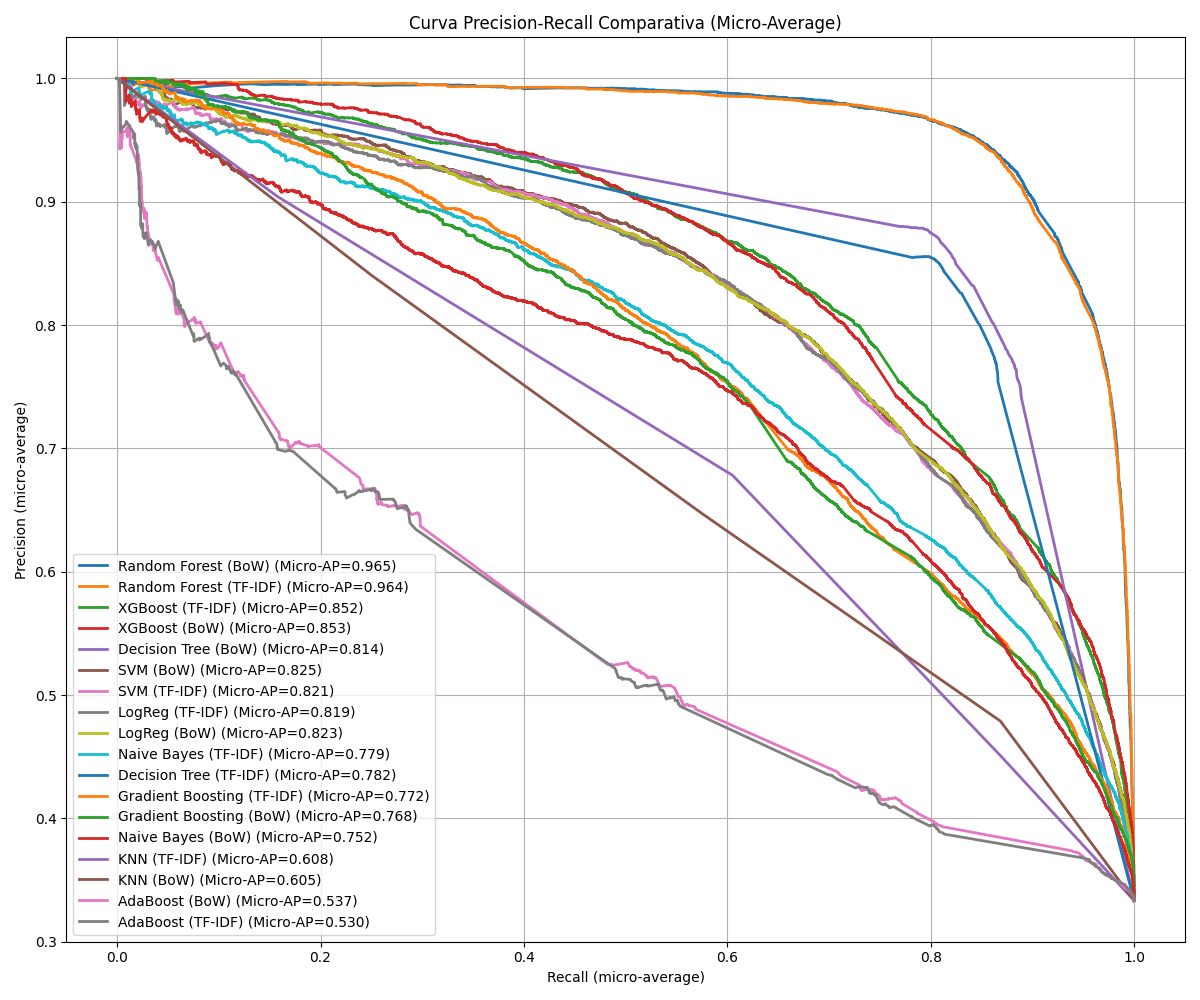
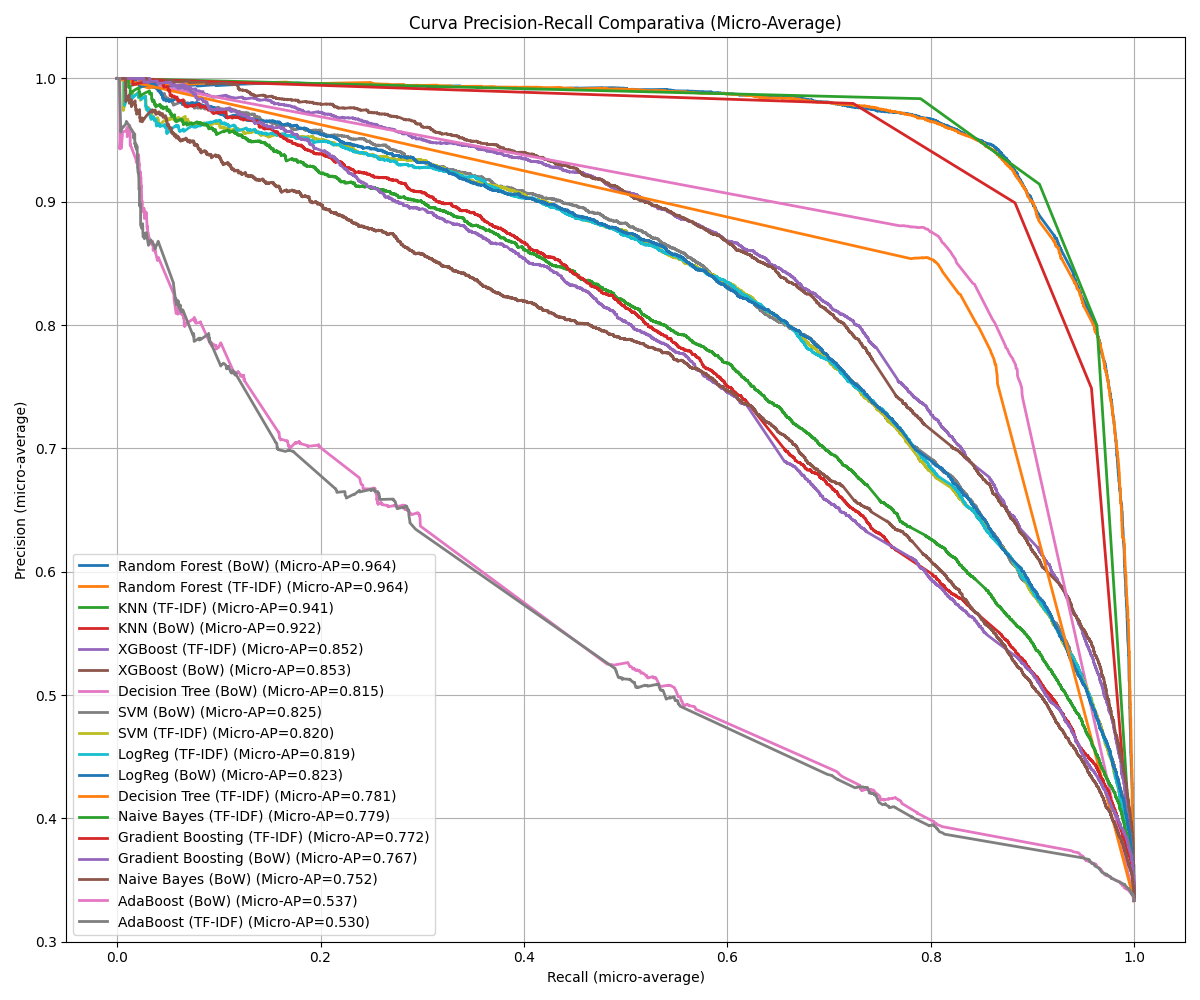
Codigo final arreglado sin modelo pesado

diff --git a/limpieza.py b/limpieza.py
@@ -9,12 +9,11 @@ from nltk.stem import WordNetLemmatizer
 lemmatizer = WordNetLemmatizer()
 stop_words = set(stopwords.words('english'))
 
-def load_and_clean_data(filepath):
+def load_and_clean_data(filepath, balance=None):
     """
     Carga el CSV, elimina irrelevantes, mapea etiquetas y limpia el texto.
     Retorna: DataFrame limpio ready para entrenar.
     """
-    
     
     print("--- CARGANDO Y LIMPIANDO DATOS ---")
     
@@ -29,8 +28,29 @@ def load_and_clean_data(filepath):
     # 3. Mapeo a 0, 1, 2
     label_map = {'Negative': 0, 'Neutral': 1, 'Positive': 2}
     df['label'] = df['sentiment'].map(label_map)
-    
-    # 4. Limpieza de texto (lema i stopwprd)
+    if balance:
+        #4. añadimos recortar el dataset para que quede mas balanceado:
+        """Calcular cuántos tweets tiene la clase con menos datos.
+        Coger aleatoriamente esa misma cantidad de tweets de las 
+        otras clases. Juntarlo todo y mezclarlo."""
+        
+        counts = df['label'].value_counts()
+        min_count = counts.min() # El número de la clase más pequeña
+        
+        print(f"Recortando clases para balancear. Mínimo encontrado: {min_count} muestras por clase.")
+        
+        # Cogemos aleatoriamente 'min_count' filas de cada clase
+        df_0 = df[df['label'] == 0].sample(n=min_count, random_state=42)
+        df_1 = df[df['label'] == 1].sample(n=min_count, random_state=42)
+        df_2 = df[df['label'] == 2].sample(n=min_count, random_state=42)
+        
+        # Juntamos y mezclamos (shuffle) para que no queden ordenados
+        df = pd.concat([df_0, df_1, df_2], axis=0)
+        df = df.sample(frac=1, random_state=42).reset_index(drop=True)
+        
+        print(f"Dataset balanceado: {len(df)} filas en total ({min_count} por clase).")
+        # -------------------------------------------------
+    # 5. Limpieza de texto (lema i stopwprd)
     df['text_clean'] = df['text'].apply(_clean_text_logic)
     
     print(f"Datos procesados: {len(df)} filas.")
@@ -48,13 +68,49 @@ def _clean_text_logic(text):
     filtered = [lemmatizer.lemmatize(w) for w in tokens if w not in stop_words]
     return " ".join(filtered)
 
-filepath = 'twitter_training.csv'
+if __name__ == "__main__":
+    
+    # Si lo importas desde otro archivo, esto se ignora (CORRECTO)
+    
+    filepath = 'twitter_training.csv'
 
-df_1 = load_and_clean_data(filepath)
+    print("--- PRUEBA DE LIMPIEZA ---")
+    df_1 = load_and_clean_data(filepath, balance=False) # Prueba sin balancear
+    muestras = df_1.sample(5)
+    for index, row in muestras.iterrows():
+        print("ORIGINAL: ", row['text'])
+        print("LIMPIO:   ", row['text_clean'])
+        print("-" * 80) 
+    
 
-muestras = df_1.sample(5)
+    print("\n--- GENERANDO GRÁFICA DE BALANCEO ---")
+    import matplotlib.pyplot as plt
+    import seaborn as sns
+    import os
 
-for index, row in muestras.iterrows():
-    print("ORIGINAL: ", row['text'])
-    print("LIMPIO:   ", row['text_clean'])
-    print("-" * 80) 
+    if not os.path.exists('imagenes'):
+        os.makedirs('imagenes')
+
+    # Cargamos BALANCEADO para ver la gráfica bonita
+    df = load_and_clean_data(filepath, balance=True) 
+
+    plt.figure(figsize=(8, 6))
+    sns.countplot(
+        data=df, 
+        x='sentiment', 
+        order=['Negative', 'Neutral', 'Positive'], 
+        palette='viridis',     
+        edgecolor='black'      
+    )
+
+    plt.title('Distribución de Clases (Tras el Balanceo)', fontsize=14)
+    plt.xlabel('Sentimiento', fontsize=12)
+    plt.ylabel('Cantidad de Tweets', fontsize=12)
+    plt.grid(axis='y', linestyle='--', alpha=0.5) 
+
+    filename = "imagenes/eda_1.2_distribucion_clases_balanceada.png"
+    plt.tight_layout()
+    plt.savefig(filename)
+    plt.close() 
+
+    print(f"-> Gráfica guardada correctamente en: {filename}")

diff --git a/analisis_rf_overfitting.py b/analisis_rf_overfitting.py
@@ -1,0 +1,98 @@
+import matplotlib
+matplotlib.use('Agg') # Backend sin ventana
+
+import matplotlib.pyplot as plt
+import numpy as np
+import pandas as pd
+import limpieza
+import os
+
+from sklearn.ensemble import RandomForestClassifier
+from sklearn.model_selection import validation_curve, train_test_split
+from sklearn.feature_extraction.text import TfidfVectorizer
+from sklearn.pipeline import Pipeline
+
+def ensure_dir(d):
+    if not os.path.exists(d):
+        os.makedirs(d)
+
+def plot_validation_curve(train_scores, test_scores, param_range, param_name, filename):
+    """
+    Pinta la curva de aprendizaje: Entrenamiento vs Validación.
+    """
+    # Calculamos la media de los 3 folds
+    train_mean = np.mean(train_scores, axis=1)
+    train_std = np.std(train_scores, axis=1)
+    test_mean = np.mean(test_scores, axis=1)
+    test_std = np.std(test_scores, axis=1)
+
+    plt.figure(figsize=(10, 6))
+    
+    # Línea NARANJA: Qué tan bien se sabe los datos de memoria (Training)
+    plt.plot(param_range, train_mean, label="Training score", color="darkorange", lw=2)
+    plt.fill_between(param_range, train_mean - train_std, train_mean + train_std, alpha=0.2, color="darkorange")
+    
+    # Línea AZUL: Qué tan bien acierta en datos nuevos (Cross-Validation)
+    plt.plot(param_range, test_mean, label="Cross-validation score", color="navy", lw=2)
+    plt.fill_between(param_range, test_mean - test_std, test_mean + test_std, alpha=0.2, color="navy")
+
+    plt.title(f"Curva de Validación: Random Forest ({param_name})", fontsize=14)
+    plt.xlabel(f"Profundidad del Árbol ({param_name})", fontsize=12)
+    plt.ylabel("Accuracy (Precisión)", fontsize=12)
+    plt.legend(loc="best")
+    plt.grid(True, linestyle='--', alpha=0.6)
+    
+    plt.tight_layout()
+    plt.savefig(filename)
+    plt.close()
+    print(f"-> Gráfica guardada: {filename}")
+
+def main():
+    print("--- ANÁLISIS DE OVERFITTING EN RANDOM FOREST ---")
+    
+    # 1. Cargar datos
+    # Preguntamos si queremos usar el dataset balanceado o el normal
+    # Para ver overfitting, a veces es mejor usar el normal para tener más datos, 
+    # pero usa el que prefieras. Aquí pongo balance=False por defecto.
+    df = limpieza.load_and_clean_data('twitter_training.csv', balance=False)
+    
+    
+    X_train, X_test, y_train, y_test = train_test_split(
+        df['text_clean'], df['label'], test_size=0.2, random_state=42, stratify=df['label']
+    )
+    
+    # 3Configurar el Pipeline 
+    pipeline = Pipeline([
+        ('vect', TfidfVectorizer(max_features=3000)),
+        ('clf', RandomForestClassifier(n_estimators=200, random_state=42, n_jobs=-1))
+    ])
+
+    # 4. Definir el rango de 'max_depth' a probar
+    
+    param_range = np.arange(15, 515, 15) 
+    
+    print(f"Calculando Curva de Validación para max_depth = {param_range}...")
+    print("Usando 200 árboles. Esto va a tardar un poco...")
+
+    # 5. Calcular la curva (Validation Curve)
+    # OJO: Aquí pasamos 'X_train' y 'y_train'. 
+    train_scores, test_scores = validation_curve(
+        pipeline, 
+        X_train, 
+        y_train, 
+        param_name="clf__max_depth", 
+        param_range=param_range,
+        cv=5, 
+        scoring="accuracy", 
+        n_jobs=-1, 
+        verbose=1
+    )
+
+    # 6. Graficar
+    ensure_dir('imagenes')
+    plot_validation_curve(train_scores, test_scores, param_range, "max_depth", "rf_validation_curve_max_depth.png")
+
+    print("\nANÁLISIS COMPLETADO.")
+   
+if __name__ == "__main__":
+    main()

diff --git a/evalucion_rf.py b/evalucion_rf.py
@@ -1,0 +1,90 @@
+import pandas as pd
+import limpieza
+import visu
+import joblib
+import matplotlib
+matplotlib.use('Agg') # Backend para evitar errores de ventana
+import matplotlib.pyplot as plt
+import os
+
+from sklearn.ensemble import RandomForestClassifier
+from sklearn.model_selection import train_test_split
+from sklearn.metrics import classification_report, accuracy_score
+from sklearn.feature_extraction.text import TfidfVectorizer
+from sklearn.pipeline import Pipeline
+
+def ensure_dir(d):
+    if not os.path.exists(d):
+        os.makedirs(d)
+
+def main():
+    print("--- EVALUACIÓN FINAL DEL MEJOR MODELO (RANDOM FOREST) ---")
+    
+    # 1. Cargar datos (Sin balancear, para aprovechar todos los datos)
+    df = limpieza.load_and_clean_data('twitter_training.csv', balance=False)
+    
+    # 2. SPLIT (Misma semilla random_state=42 para replicar el experimento)
+    print("Separando Train (80%) y Test (20%) con random_state=42...")
+    X_train, X_test, y_train, y_test = train_test_split(
+        df['text_clean'], df['label'], test_size=0.2, random_state=42, stratify=df['label']
+    )
+    classes = sorted(df['label'].unique())
+
+    # 3. Configurar el Modelo DEFINITIVO
+    # Parámetros ganadores: n_estimators=200, max_depth=250
+    print(f"Entrenando modelo final con max_depth=250 y n_estimators=200...")
+    
+    final_pipeline = Pipeline([
+        ('vect', TfidfVectorizer(max_features=3000)),
+        ('clf', RandomForestClassifier(
+            n_estimators=200, 
+            max_depth=250,    # <--- EL VALOR ÓPTIMO ENCONTRADO
+            random_state=42, 
+            n_jobs=-1
+        ))
+    ])
+
+    # 4. Entrenar con el 80% completo
+    final_pipeline.fit(X_train, y_train)
+
+    # 5. Evaluación Final con el TEST (20% virgen)
+    print("Evaluando sobre el conjunto de Test...")
+    y_pred = final_pipeline.predict(X_test)
+    
+    # Métricas
+    acc = accuracy_score(y_test, y_pred)
+    print(f"\n>>> ACCURACY FINAL EN TEST: {acc:.4f} <<<")
+    
+    report = classification_report(y_test, y_pred, target_names=[str(c) for c in classes])
+    print("\nReporte de Clasificación:")
+    print(report)
+
+    # 6. Guardar resultados
+    out_dir = 'resultados_rf_250_depth'  
+    ensure_dir(out_dir)
+    
+    # Guardar reporte en texto
+    with open(f'{out_dir}/classification_report.txt', 'w') as f:
+        f.write(f"Accuracy Final: {acc:.4f}\n\n")
+        f.write(report)
+
+    # --- GRÁFICAS  ---
+    print("Generando gráficas finales...")
+    
+    # 1. Matriz de Confusión
+    visu.plot_conf_matrix(final_pipeline, X_test, y_test, prefix=f'{out_dir}/final')
+    
+    # 2. Curva ROC (Por clase) <--- AÑADIDO
+    visu.plot_roc_per_class(final_pipeline, X_test, y_test, classes, out_dir=out_dir)
+    
+    # 3. Curva Precision-Recall (Por clase) <--- EXTRA (Muy útil)
+    visu.plot_pr_per_class(final_pipeline, X_test, y_test, classes, out_dir=out_dir)
+
+    # Guardar el modelo
+    joblib.dump(final_pipeline, f'{out_dir}/modelo_rf_250_depth.pkl')
+    
+    print(f"\nPROCESO COMPLETADO.")
+    print(f"Todos los resultados, modelo y gráficas (ROC incluida) están en: '{out_dir}/'")
+
+if __name__ == "__main__":
+    main()

diff --git a/hiperparametros_comp.py b/hiperparametros_comp.py
@@ -30,7 +30,16 @@ def ensure_dir(d):
 
 def main():
     print('--- CARGANDO Y LIMPIANDO DATOS ---')
-    df = limpieza.load_and_clean_data('twitter_training.csv')
+    
+    balance = input("BALANCEADO: (s/n): ")
+    if balance.lower() == 's':
+        df = limpieza.load_and_clean_data('twitter_training.csv', balance=True)
+        directorio = 'results_hiperparams_balanceado'
+    else:
+        df = limpieza.load_and_clean_data('twitter_training.csv')
+        directorio = 'results_hiperparams'
+    
+    ensure_dir(directorio)
 
     X_train, X_test, y_train, y_test = train_test_split(
         df['text_clean'], df['label'], test_size=0.2, random_state=42, stratify=df['label']
@@ -66,7 +75,7 @@ def main():
         'KNN': {'clf__n_neighbors': [3, 5, 7]}
     }
 
-    ensure_dir('results_hiperparams')
+    ensure_dir(directorio)
     best_models_results = []
     
     print('--- INICIANDO BÚSQUEDA DE HIPERPARÁMETROS ---')
@@ -81,7 +90,7 @@ def main():
                 print(f"No se encontró grid para {m_name}, saltando.")
                 continue
 
-            out_dir = f'results_hiperparams/{m_name}_{v_name}'
+            out_dir = f'{directorio}/{m_name}_{v_name}'
             ensure_dir(out_dir)
 
             n_jobs = -1 if m_name not in ['KNN', 'SVM'] else 1 # Algunos modelos son muy pesados
@@ -142,15 +151,15 @@ def main():
     best_models_results.sort(key=lambda x: x['best_score'], reverse=True)
     
     # Crear carpeta para imágenes si no existe
-    ensure_dir('imagenes')
+    ensure_dir(directorio)
 
    
     visu.plot_comparison_roc(best_models_results, X_test, y_test, classes, 
-                             filename='imagenes/comparativa_roc_mejores_modelos.png', 
+                             filename=f'{directorio}/comparativa_roc_mejores_modelos.png', 
                              average='micro')
     
     visu.plot_comparison_pr(best_models_results, X_test, y_test, classes, 
-                            filename='imagenes/comparativa_pr_mejores_modelos.png', 
+                            filename=f'{directorio}/comparativa_pr_mejores_modelos.png', 
                             average='micro')
     
 
@@ -159,9 +168,9 @@ def main():
     for res in best_models_results:
         print(f"  - Modelo: {res['name']} ({res['vectorizer']}) -> AUC: {res['best_score']:.4f}")
         print(f"    Mejores Parámetros: {res['best_params']}")
-        print(f"    Archivos guardados en: results_hiperparams/{res['name']}_{res['vectorizer']}/")
+        print(f"    Archivos guardados en: {directorio}/{res['name']}_{res['vectorizer']}/")
 
-    print("\nGráficos comparativos guardados en la carpeta 'imagenes/'.")
+    print(f"\nGráficos comparativos guardados en la carpeta '{directorio}/'.")
 
 
 if __name__ == '__main__':
